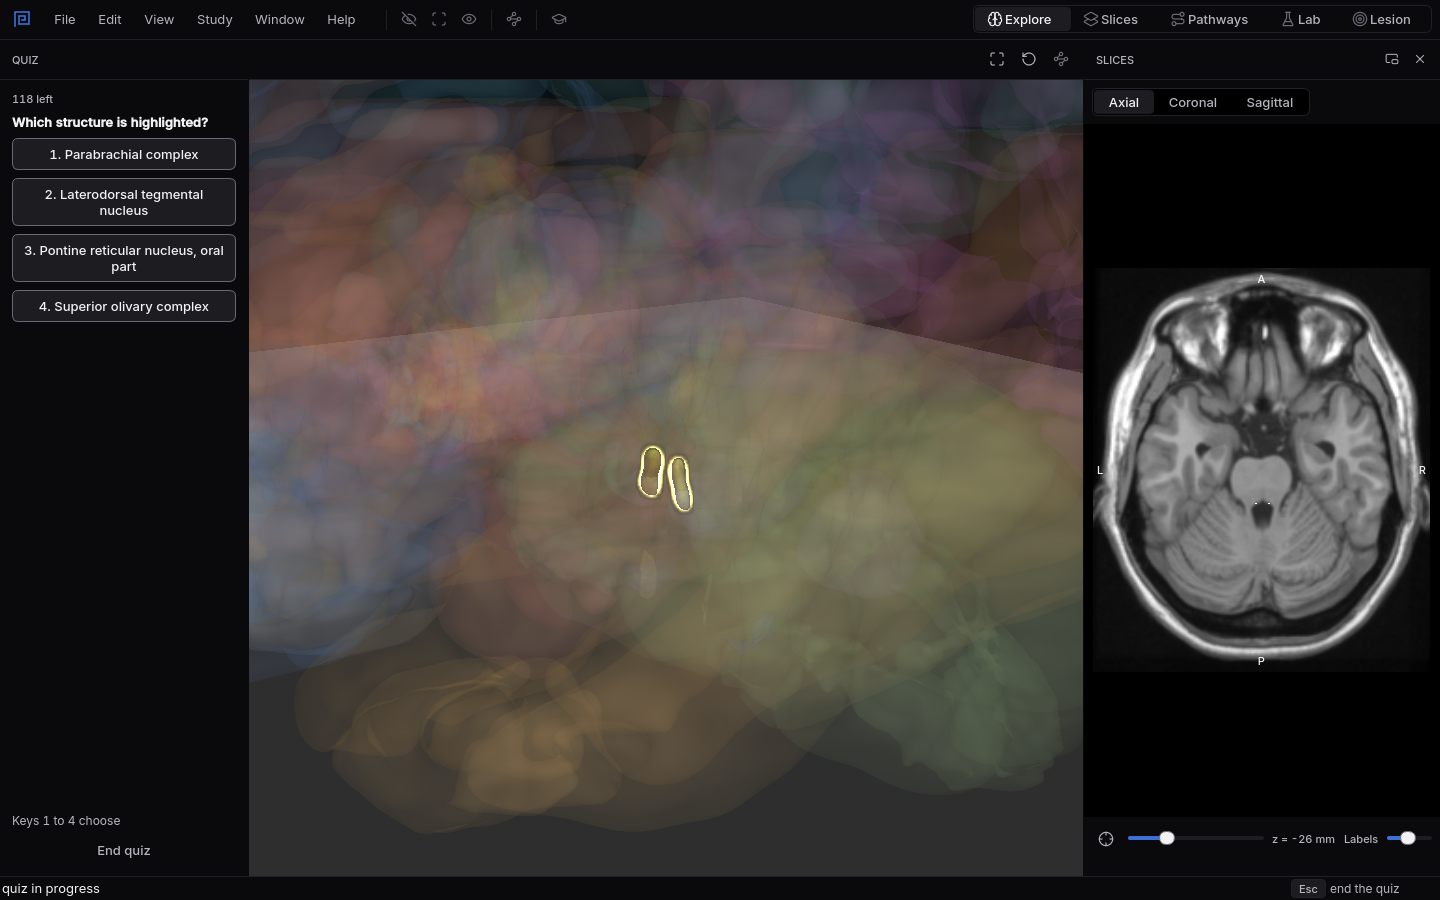
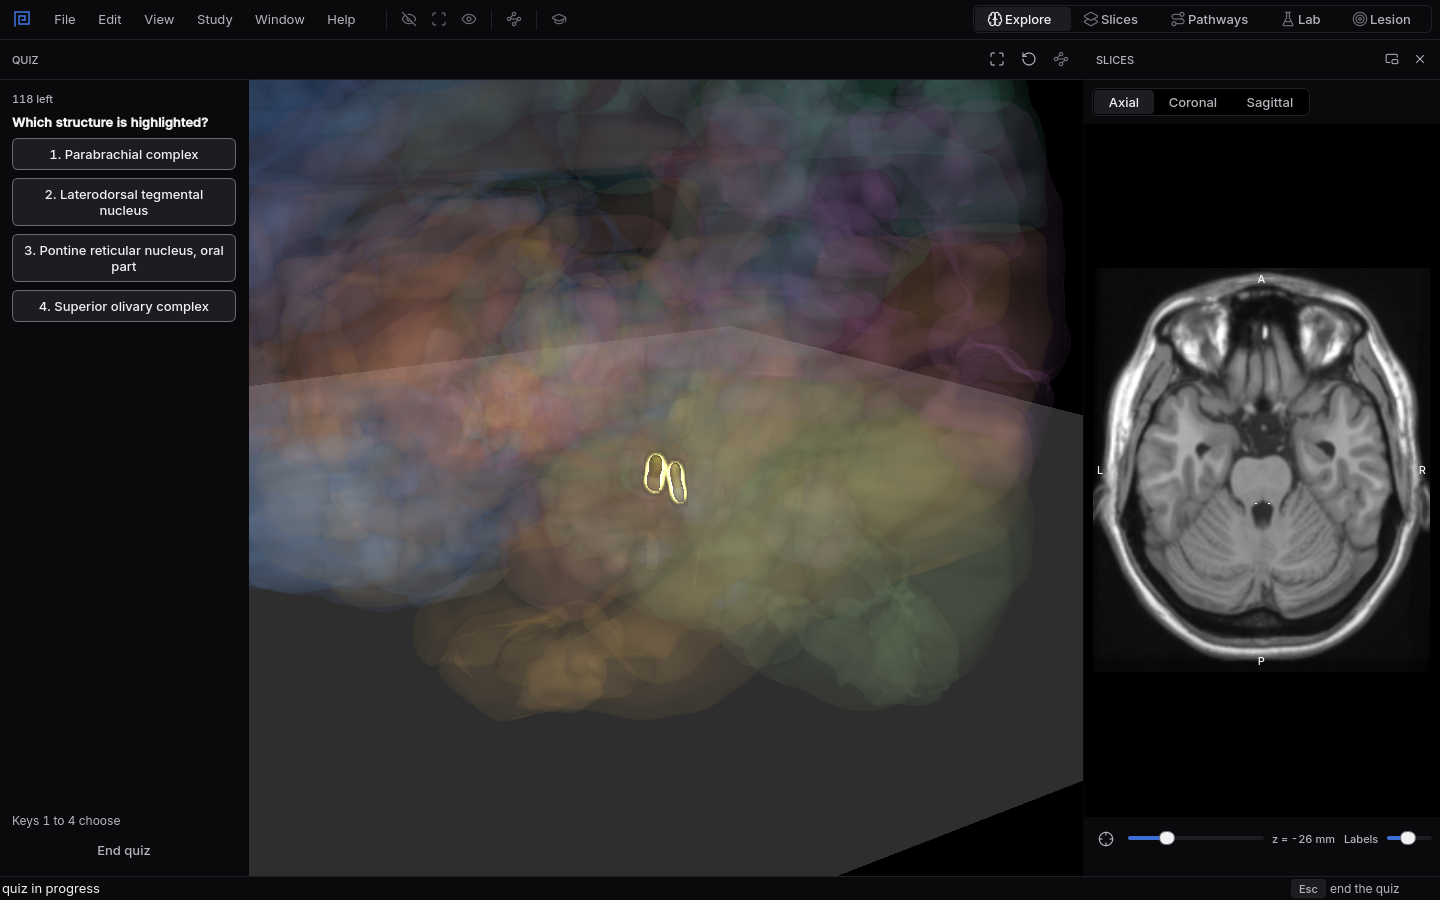
Keep 80 mm of brain around a Name it target so the outline of the brain shows where it sits

diff --git a/cns_desktop/main_window.py b/cns_desktop/main_window.py
@@ -60,7 +60,7 @@ KEYS = {
     "lab": (("Space", "play"), ("V", "brain or circuit"), ("Del", "remove change")),
 }
 QUIZ_LOCKED = ("Hide", "Isolate", "Show all", "Start quiz", "Tracts")
-QUIZ_ROOM_MM = 60.0
+QUIZ_ROOM_MM = 80.0
 ARROW_WIDGETS = (QAbstractSlider, QAbstractItemView, QAbstractSpinBox)
 ROUTE_DIM = 0.55
 ROUTE_KEYS = ("Play or pause", "Back", "Next")
